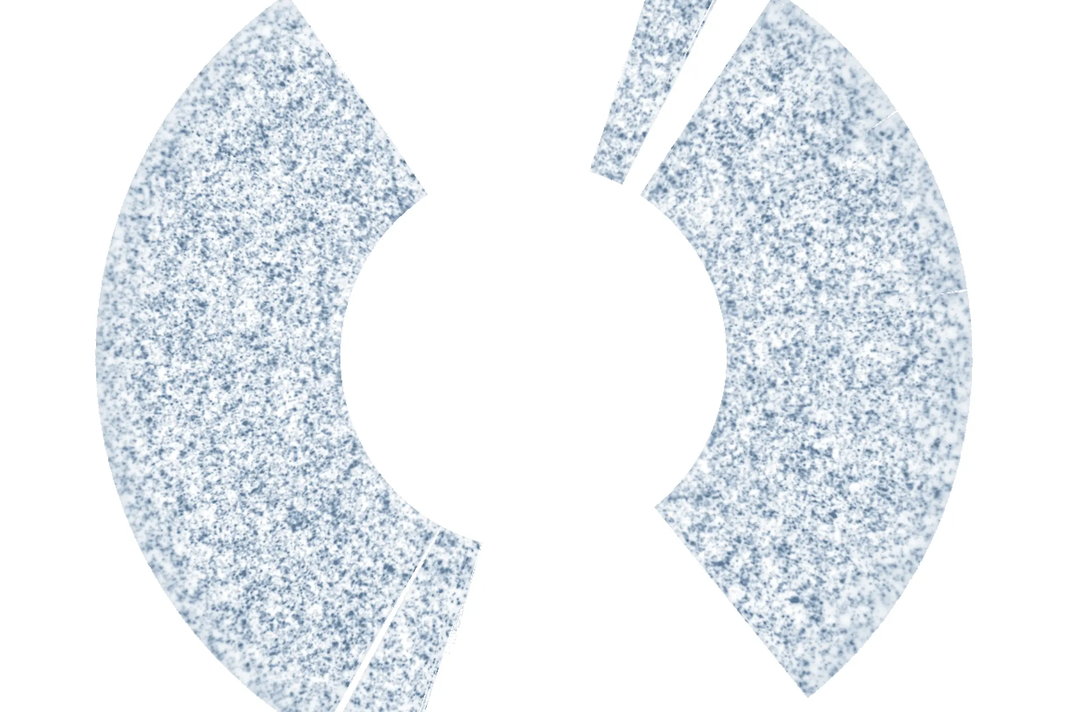
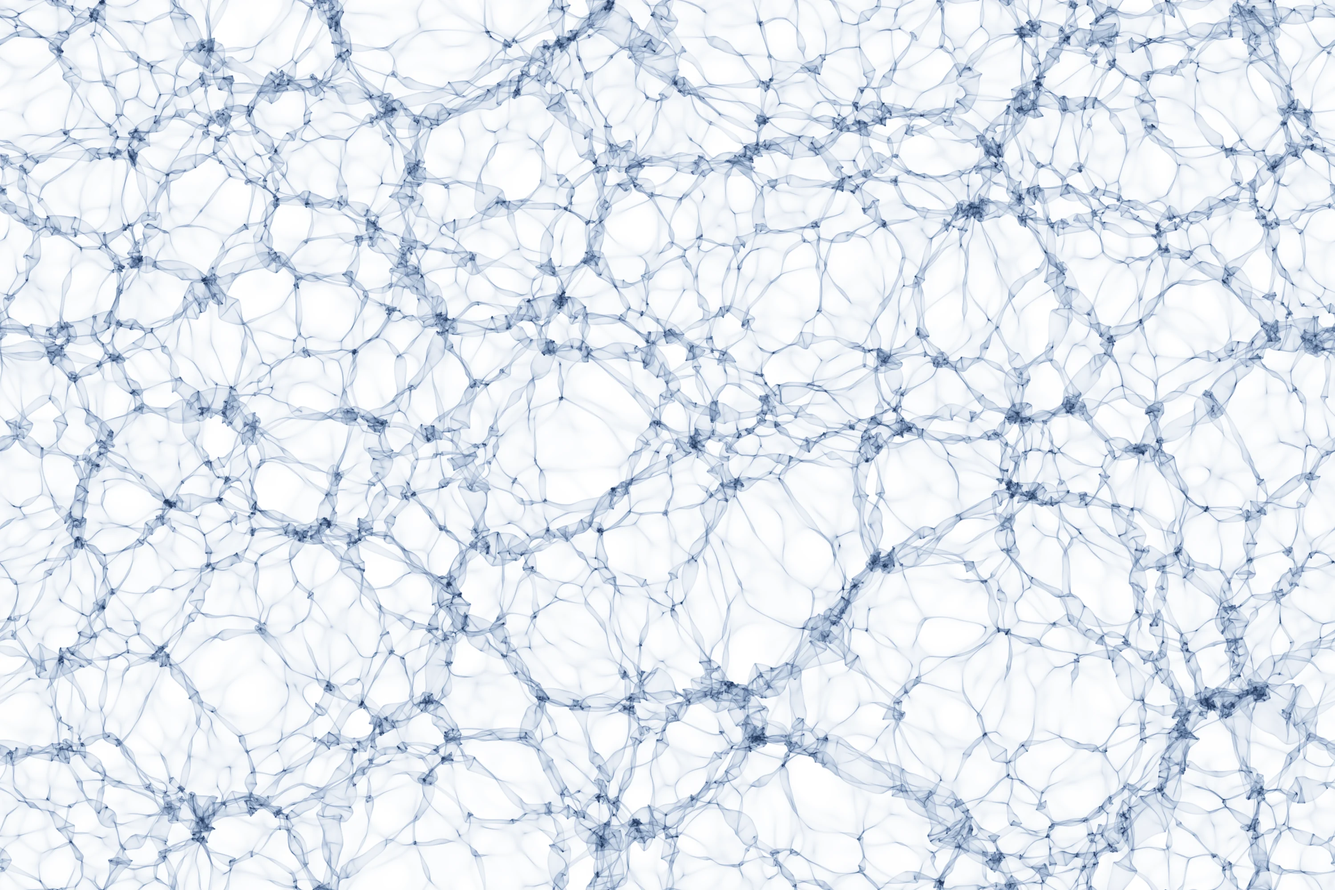
Full-page cosmic-web background; add DESI Paris plenary talks
Replace the LiFT footprint slice with a full-frame, periodic
Zel'dovich-approximation cosmic web (script in scripts/), and add two
upcoming DESI Paris Winter Meeting talks to the CV and Talks page.

Claude-Session: https://claude.ai/code/session_01FA8nJvtZ7PFxZNvyWQQSSp

diff --git a/_sass/_site_custom.scss b/_sass/_site_custom.scss
@@ -1,20 +1,20 @@
 /******************************************************************************
  * Site-specific styles: full-page background image.
  *
- * The image is a slice through the LiFT-reconstructed linear density field of
- * the DESI DR1 luminous red galaxies. To change how strongly it shows, edit
+ * The image is a small Zel'dovich-approximation simulation of the cosmic web
+ * (made by scripts/make_background.py). To change how strongly it shows, edit
  * --bg-image-fade (0% = full strength, 100% = hidden) and --bg-panel-opacity.
  ******************************************************************************/
 
 :root {
   --bg-image: url("/assets/img/bg_light.webp");
-  --bg-image-fade: 35%;
+  --bg-image-fade: 30%;
   --bg-panel-opacity: 88%;
 }
 
 html[data-theme="dark"] {
   --bg-image: url("/assets/img/bg_dark.webp");
-  --bg-image-fade: 45%;
+  --bg-image-fade: 35%;
   --bg-panel-opacity: 84%;
 }
 

diff --git a/scripts/make_background.py b/scripts/make_background.py
@@ -1,0 +1,50 @@
+"""Render the website background: a periodic 2D Zel'dovich-approximation cosmic web."""
+import numpy as np
+from PIL import Image
+from scipy.ndimage import gaussian_filter
+
+NX, NY, OVER, LX, AMP, R, SEED = 3000, 2000, 2, 360.0, 2.0, 0.55, 11
+nx, ny = NX*OVER, NY*OVER; LY = LX*ny/nx
+rng = np.random.default_rng(SEED)
+kx = 2*np.pi*np.fft.rfftfreq(nx, d=LX/nx)[None, :]; ky = 2*np.pi*np.fft.fftfreq(ny, d=LY/ny)[:, None]
+k2 = kx**2+ky**2; k2[0, 0] = 1.0; k = np.sqrt(k2); q = k/0.2
+T = np.log(1+2.34*q)/(2.34*q)*(1+3.89*q+(16.1*q)**2+(5.46*q)**3+(6.71*q)**4)**-0.25
+P = k**0.96*T**2*k*np.exp(-k2*R**2); P[0, 0] = 0
+dk = np.fft.rfft2(rng.standard_normal((ny, nx)).astype(np.float32))*np.sqrt(P)
+d = np.fft.irfft2(dk, s=(ny, nx)); dk *= AMP/d.std(); del d
+psix = (np.fft.irfft2(1j*kx/k2*dk, s=(ny, nx))*(NX/LX)).astype(np.float32)
+psiy = (np.fft.irfft2(1j*ky/k2*dk, s=(ny, nx))*(NY/LY)).astype(np.float32)
+del dk, k2, k, q, T, P
+rho = np.zeros(NX*NY)
+qx = np.arange(nx, dtype=np.float32)[None, :]/OVER; qy = np.arange(ny, dtype=np.float32)[:, None]/OVER
+# four interleaved sub-lattices (displacements interpolated between lattice points) to avoid grid patterns
+for sy, sx in ((0, 0), (0, 1), (1, 0), (1, 1)):
+    px = psix if sx == 0 else 0.5*(psix+np.roll(psix, -1, 1)); py = psiy if sx == 0 else 0.5*(psiy+np.roll(psiy, -1, 1))
+    if sy: px = 0.5*(px+np.roll(px, -1, 0)); py = 0.5*(py+np.roll(py, -1, 0))
+    X = ((qx+sx*0.5/OVER+px) % NX).ravel(); Y = ((qy+sy*0.5/OVER+py) % NY).ravel(); del px, py
+    i0 = np.floor(X).astype(np.int64); j0 = np.floor(Y).astype(np.int64); fx = X-i0; fy = Y-j0; del X, Y
+    i0 %= NX; j0 %= NY; i1 = (i0+1) % NX; j1 = (j0+1) % NY
+    for jj, ii, w in ((j0, i0, (1-fx)*(1-fy)), (j0, i1, fx*(1-fy)), (j1, i0, (1-fx)*fy), (j1, i1, fx*fy)):
+        rho += np.bincount(jj*NX+ii, weights=w, minlength=NX*NY)
+    del i0, j0, i1, j1, fx, fy
+rho = (rho.reshape(NY, NX)/(4*OVER**2)).astype(np.float32)
+rho = gaussian_filter(rho, 0.6, mode="wrap")
+np.save("web_rho.npy", rho)
+v = np.log10(rho+0.08); lo, hi = np.percentile(v, [0.5, 99.95]); v = np.clip((v-lo)/(hi-lo), 0, 1)
+print("mean", rho.mean(), "max", rho.max(), "v median", np.median(v))
+
+def ramp(v, stops):
+    xs = [s[0] for s in stops]; out = np.empty(v.shape+(3,), np.float32)
+    for c in range(3): out[..., c] = np.interp(v, xs, [s[1][c] for s in stops])
+    return (out+0.5).astype(np.uint8)
+
+dark = ramp(v**1.15, [(0, (7, 10, 20)), (0.35, (20, 34, 66)), (0.6, (52, 92, 150)), (0.82, (150, 190, 228)), (1, (245, 250, 255))])
+light = ramp(v**1.15, [(0, (255, 255, 255)), (0.35, (226, 233, 242)), (0.6, (172, 190, 214)), (0.82, (96, 122, 160)), (1, (40, 58, 92))])
+for name, arr in (("dark", dark), ("light", light)):
+    im = Image.fromarray(arr); im.save(f"web_{name}.png")
+    im.save(f"web_{name}.webp", "WEBP", quality=86, method=6)
+    im.resize((1500, 1000), Image.LANCZOS).save(f"web_{name}_prev.jpg", quality=88)
+    im.crop((1000, 600, 1900, 1200)).save(f"web_{name}_crop.png")
+import os
+for f in sorted(os.listdir(".")):
+    if f.startswith("web_") and f.endswith(".webp"): print(f, os.path.getsize(f)//1024, "KB")

diff --git a/cv/talks.tex b/cv/talks.tex
@@ -8,6 +8,8 @@
 \end{tabular}\par\vspace{-0.35em}
 \begin{tabular}{l @{\hspace{4ex}} l}
 2026
+& DESI Paris Winter Meeting Plenary Talk (\textit{upcoming})\\
+& DESI Paris Winter Meeting Plenary Review Talk (\textit{upcoming})\\
 & DESI Paris Winter Meeting Spotlight Talk (\textit{upcoming})\\
 & DESI Lunch, Lawrence Berkeley National Lab\\
 & University of California Open Source Program Office Meet Up\\

diff --git a/README.md b/README.md
@@ -15,7 +15,7 @@ Personal website of Liam H. Parker, built with [Jekyll](https://jekyllrb.com/) a
 | CV (PDF shown on the CV page)   | `cv/CV.tex`, `cv/pubs.tex`, `cv/talks.tex`      |
 | Contact icons on the home page  | `_data/socials.yml`                             |
 | Name, site URL, global settings | `_config.yml`                                   |
-| Background image and its fade   | `_sass/_site_custom.scss`, `assets/img/bg_*.webp` |
+| Background image and its fade   | `_sass/_site_custom.scss`, `assets/img/bg_*.webp` (made by `scripts/make_background.py`) |
 
 A paper appears on the home page when its entry in `papers.bib` has `selected = {true}`.
 
